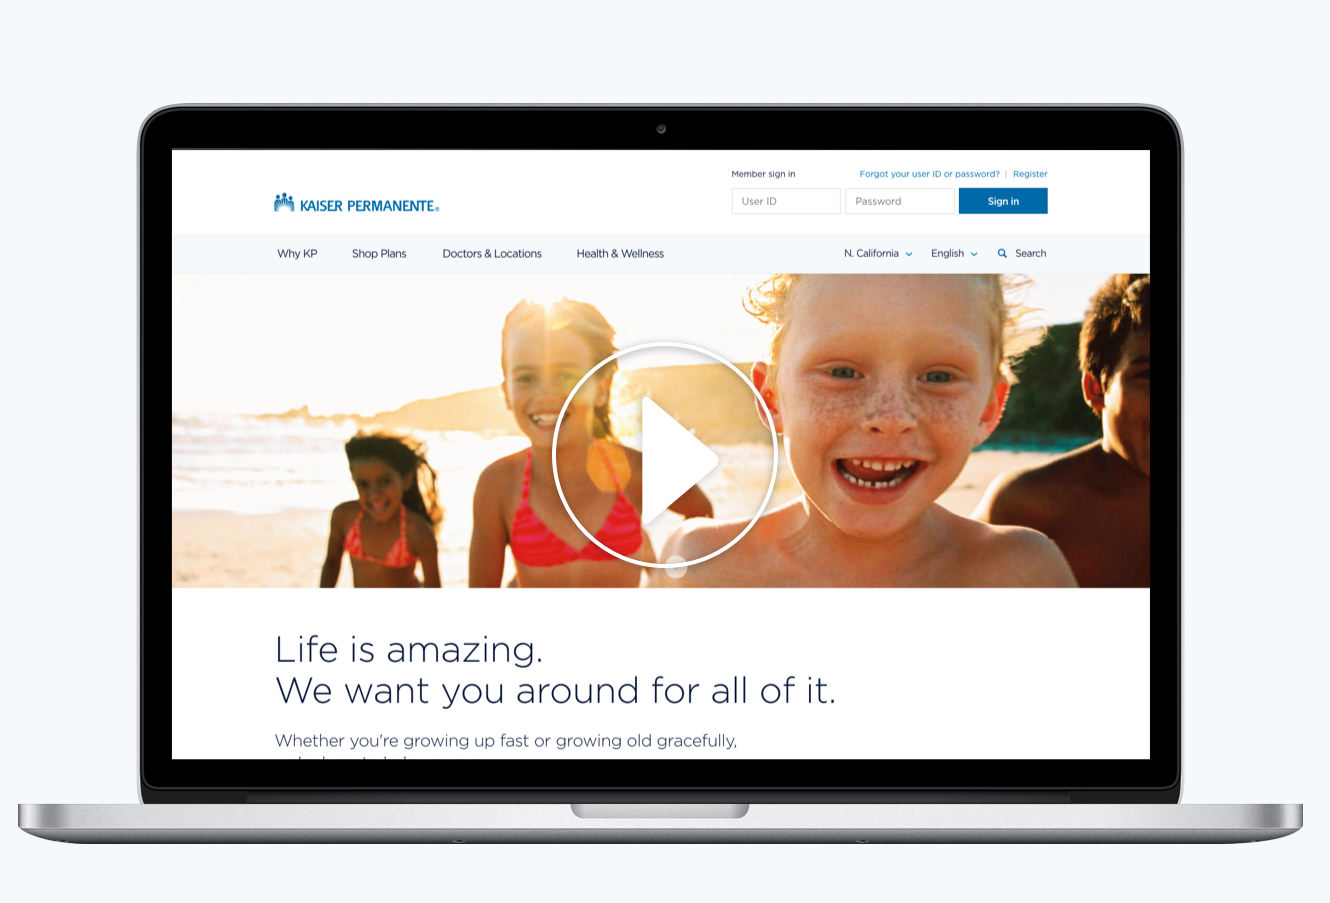
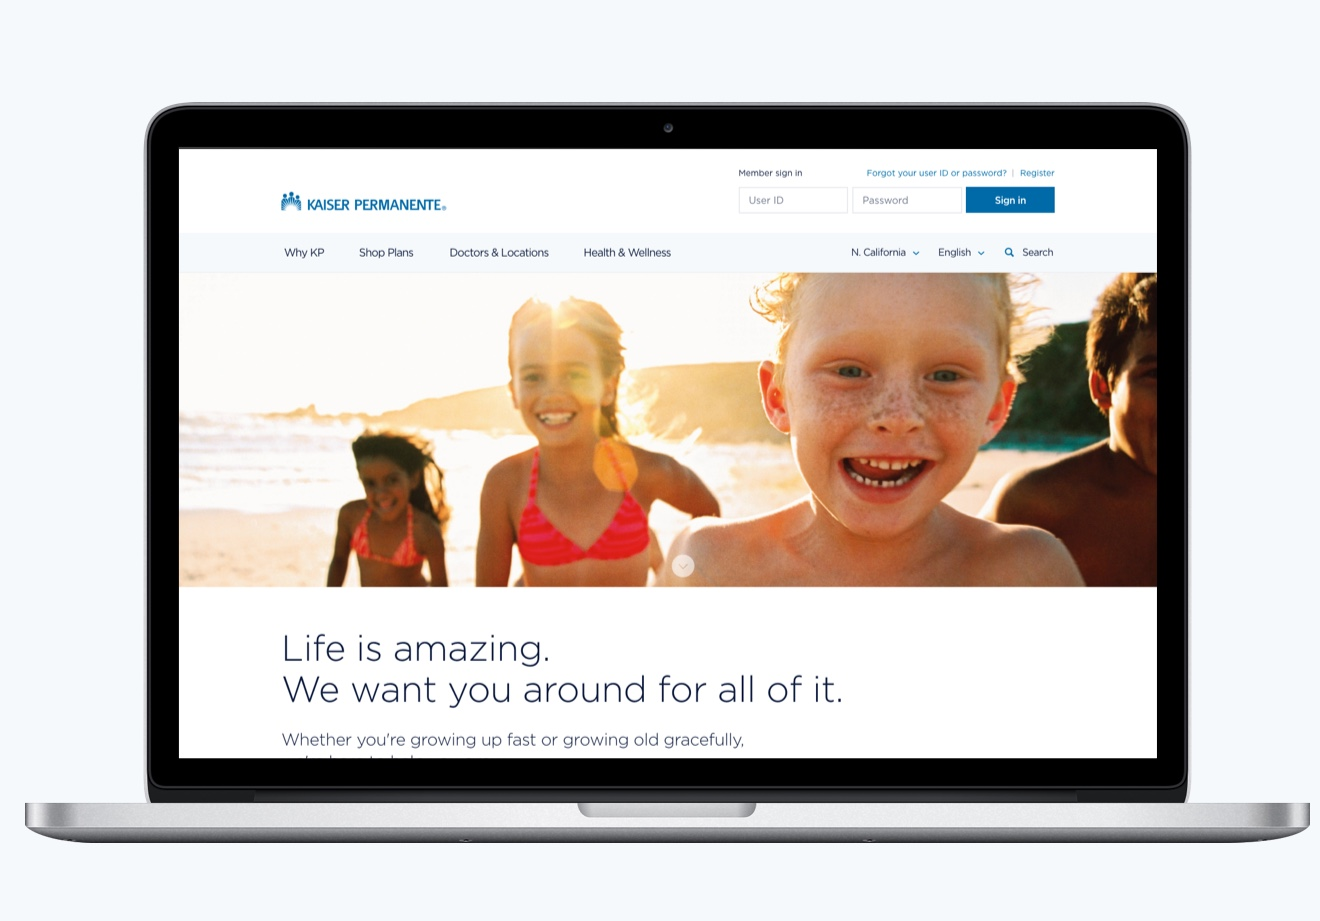
KP Case Study

Changed region(s): [[0.0, 0.093, 0.9939, 0.9612], [0.1864, 0.2171, 0.3417, 0.3101]]

diff --git a/src/data/caseStudies.js b/src/data/caseStudies.js
@@ -51,8 +51,8 @@ export const caseStudies = [
         imgAlt: 'Kaiser Permanente 3',
         copy: [
           {
-            classes: 'casestudy__text'
-            //blank space?
+            classes: 'casestudy__text',
+            text: 'We also explored new ways to help KP doctors and patients communicate and share information—whether in the exam room or at home. '
           }
         ]
       },
@@ -82,7 +82,13 @@ export const caseStudies = [
         copy: [
           {
             classes: 'casestudy__text typ--h4',
-            text: 'Visit Kaiser Permanente’s new home page at KP.org — the first of several steps in an ambitious effort to revamp all the organization’s digital touch points.'
+            linkText:
+            {
+              startText: 'Visit Kaiser Permanente’s new home page at ',
+              linkText: 'KP.org',
+              link: 'http://kp.org',
+              endText: ' — the first of several steps in an ambitious effort to revamp all the organization’s digital touch points.'
+            }
           }
         ]
       }

diff --git a/src/components/CaseStudy/CaseStudySection.jsx b/src/components/CaseStudy/CaseStudySection.jsx
@@ -20,7 +20,6 @@ class CaseStudySection extends React.Component {
 
   render () {
     const { video, images, imgAlt, copy, pad, classes, containerClass } = this.props;
-
     return (
       <div className={ classes && classes }>
         { video &&
@@ -60,6 +59,14 @@ class CaseStudySection extends React.Component {
                 { copy.url && copy.text
                   ? <a href={ copy.url } target="_blank" className={ copy.classes && copy.classes }>{ copy.text }</a>
                   : <div className={ copy.classes && copy.classes }>{ copy.text }</div> }
+
+                { copy.linkText &&
+                  <div className={ copy.classes && copy.classes }>
+                    <span>{ copy.linkText.startText }</span>
+                    <span><a href={ copy.linkText.link } target="_blank">{ copy.linkText.linkText }</a></span>
+                    <span>{ copy.linkText.endText }</span>
+                  </div>
+                }
 
               </div>
             )) }

diff --git a/src/components/Showcase/Scene.scss b/src/components/Showcase/Scene.scss
@@ -199,16 +199,20 @@
 
 .sc__kaiser {
   .scene__device {
-    left: -30%;
-    top: 43%;
+    left: -21%;
+    width: 100%;
+    top: 90.4%;
     // media queries
-    @include breakpoint($tablet-sm) {
-      top: 50%;
-      left: -102%;
-      width: 219%;
+    @include breakpoint($tablet-md) {
+      top: 105.4%;
     }
     @include breakpoint($mobile-lg) {
-      width: 200%;
+      left: -16%;
+      top: 50%;
+    }
+    @media (max-width: 767px) and (orientation: landscape) {
+      left: -50%;
+      width: 125%;
     }
   }
 
